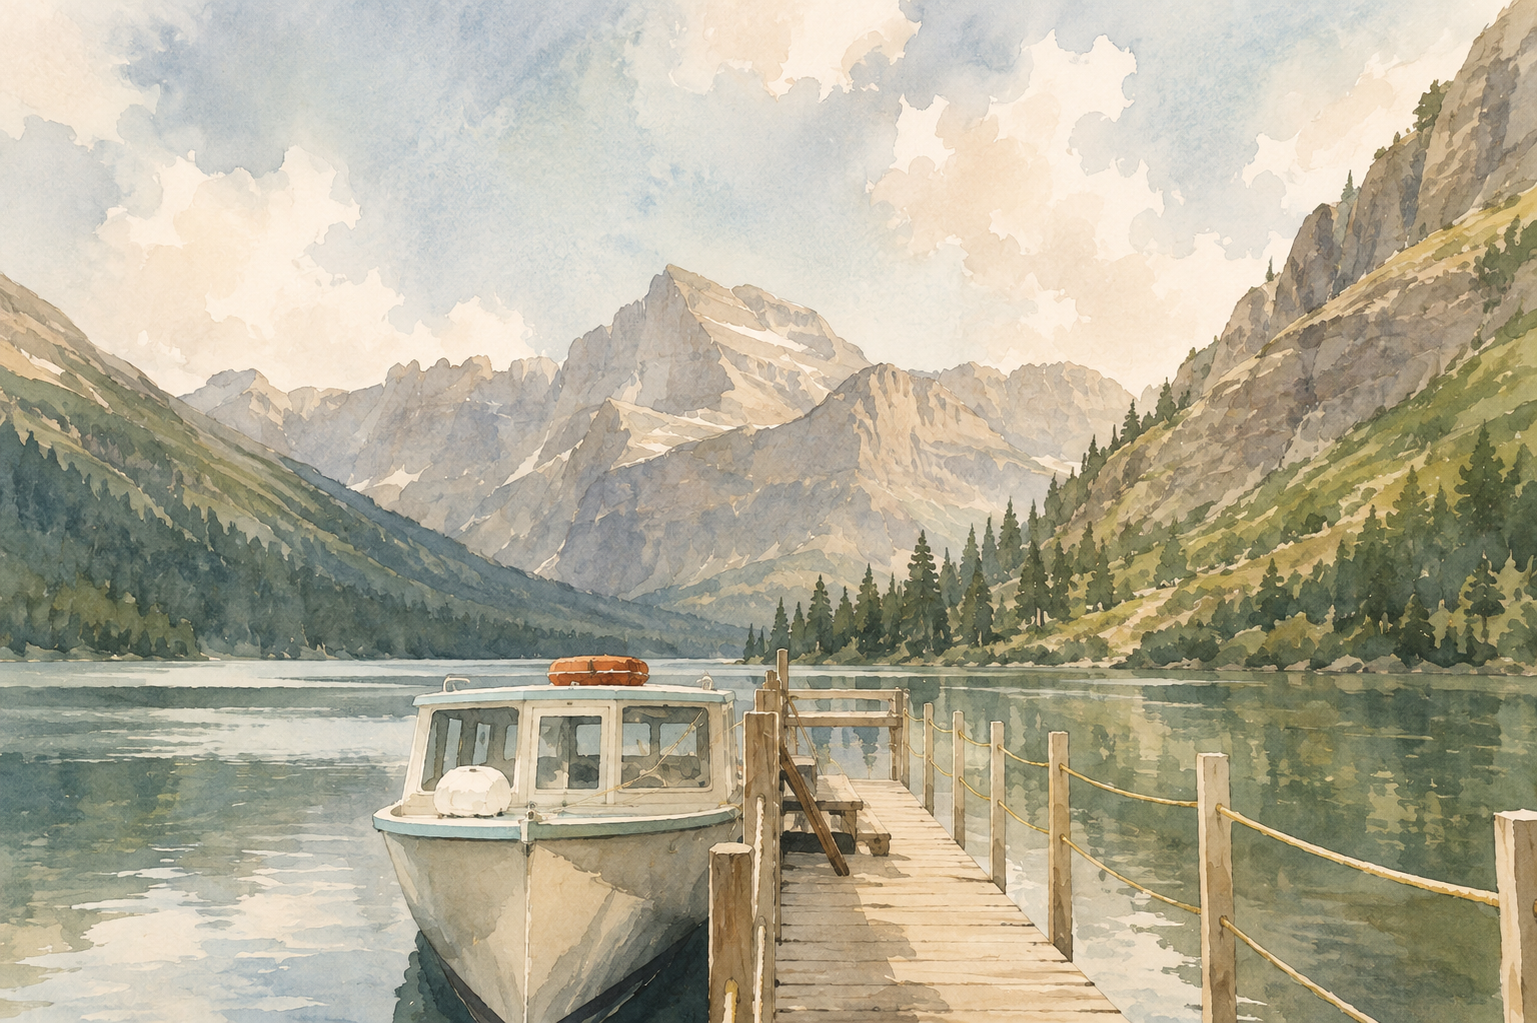
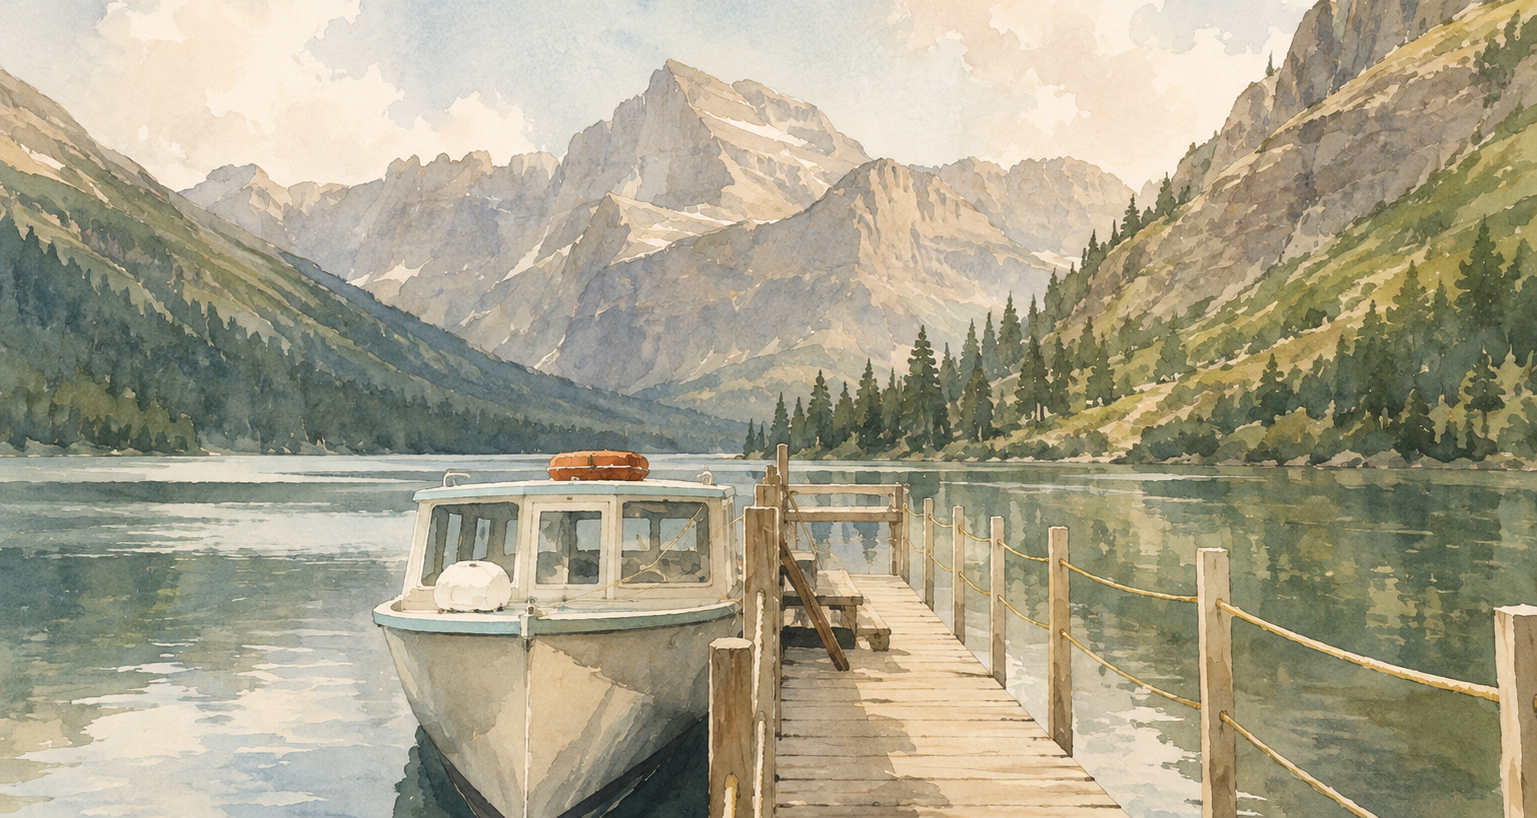
Crop top 20% off the Glacier Image for the travel hero
Trims the sky-heavy top of the source photo so the mountains sit at
the frame's top edge on landing, instead of leaving a lot of empty sky
above them. The fade-to-white mask at the bottom is untouched.

diff --git a/assets/css/save-the-date.css b/assets/css/save-the-date.css
@@ -2423,7 +2423,11 @@ body.travel-page .paper { background: #fff; }
    The mask (not a solid overlay) is what makes the fade actually read as
    the photo dissolving into paper rather than a rectangle laid over it;
    it only works because the page behind it is the same white the mask
-   fades to (11.1). */
+   fades to (11.1). The source file itself already has its top ~20%
+   (mostly open sky) trimmed off, so the mountains and lake sit right at
+   the top edge on every breakpoint — object-position only needs to
+   center horizontally, since at both aspect ratios below the crop is
+   from the sides, never the top. */
 .travel-hero-media {
   width: 100%;
   line-height: 0;
@@ -2432,7 +2436,7 @@ body.travel-page .paper { background: #fff; }
   width: 100%;
   aspect-ratio: 4 / 3;
   object-fit: cover;
-  object-position: center 42%;
+  object-position: center;
   -webkit-mask-image: linear-gradient(to bottom, #000 62%, transparent 94%);
           mask-image: linear-gradient(to bottom, #000 62%, transparent 94%);
 }
